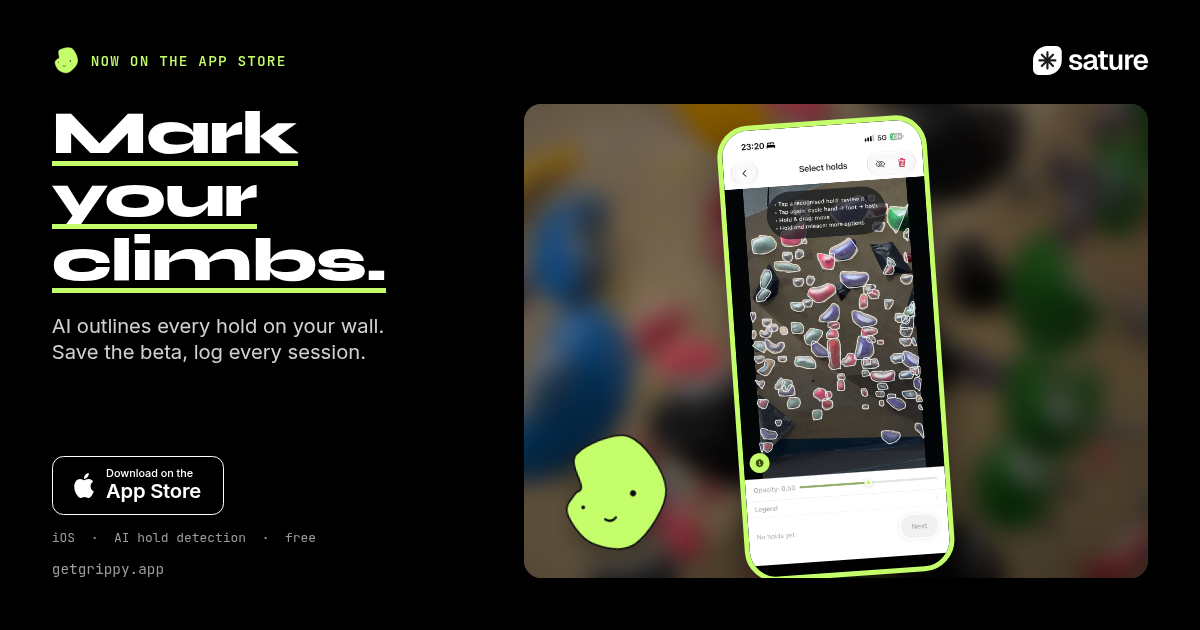
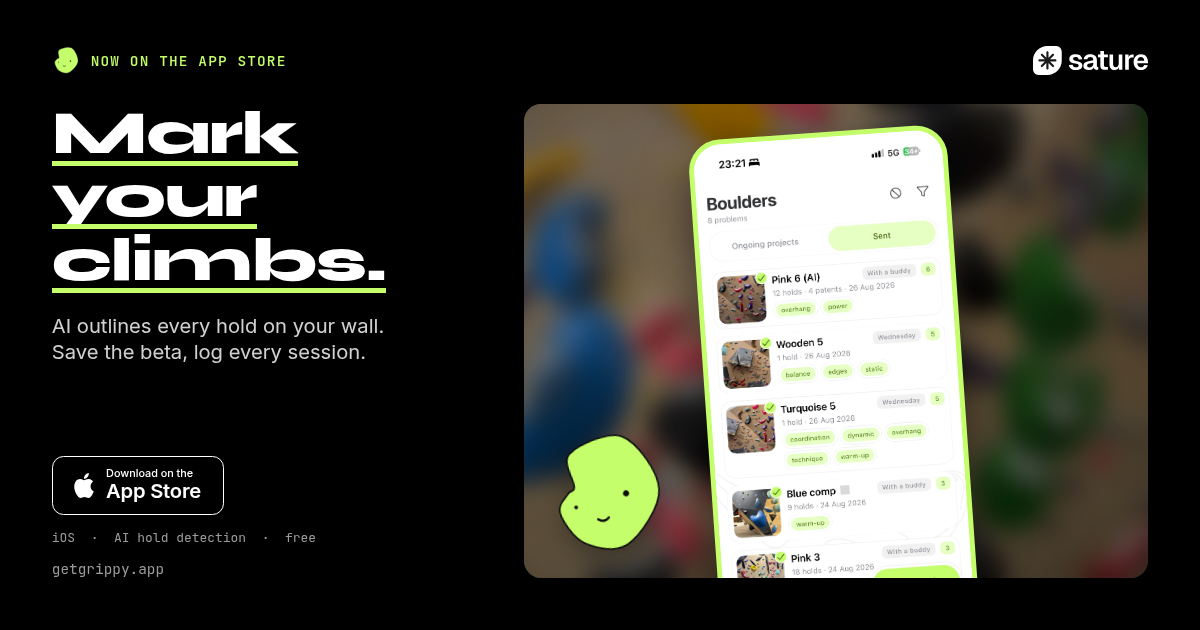
Share image: show the boulders list with thumbnails on the phone

Changed region(s): [[0.555, 0.181, 0.8325, 0.9349], [0.4625, 0.6937, 0.555, 0.8746]]

diff --git a/index.html b/index.html
@@ -17,13 +17,13 @@
   <meta property="og:image:type" content="image/png" />
   <meta property="og:image:width" content="1200" />
   <meta property="og:image:height" content="630" />
-  <meta property="og:image:alt" content="Grippy app: Mark your climbs. A phone showing AI-outlined holds on a bouldering wall, with the Grippy mascot." />
+  <meta property="og:image:alt" content="Grippy app: Mark your climbs. A phone showing the Grippy boulders list with wall photo thumbnails, with the Grippy mascot." />
 
   <meta name="twitter:card" content="summary_large_image" />
   <meta name="twitter:title" content="Grippy — Mark Your Climbs" />
   <meta name="twitter:description" content="A bouldering app for climbers: AI outlines every hold on your wall photo, save beta, grade and tag problems, and log every session." />
   <meta name="twitter:image" content="https://getgrippy.app/assets/og-image.png" />
-  <meta name="twitter:image:alt" content="Grippy app: Mark your climbs. A phone showing AI-outlined holds on a bouldering wall, with the Grippy mascot." />
+  <meta name="twitter:image:alt" content="Grippy app: Mark your climbs. A phone showing the Grippy boulders list with wall photo thumbnails, with the Grippy mascot." />
 
   <link rel="icon" type="image/svg+xml" href="assets/favicon.svg" />
   <link rel="stylesheet" href="styles.css?v=2" />

diff --git a/gym-owner.html b/gym-owner.html
@@ -17,13 +17,13 @@
   <meta property="og:image:type" content="image/png" />
   <meta property="og:image:width" content="1200" />
   <meta property="og:image:height" content="630" />
-  <meta property="og:image:alt" content="Grippy app: Mark your climbs. A phone showing AI-outlined holds on a bouldering wall, with the Grippy mascot." />
+  <meta property="og:image:alt" content="Grippy app: Mark your climbs. A phone showing the Grippy boulders list with wall photo thumbnails, with the Grippy mascot." />
 
   <meta name="twitter:card" content="summary_large_image" />
   <meta name="twitter:title" content="Grippy for Gyms" />
   <meta name="twitter:description" content="Give your walls a digital home. Publish sets, manage boulders wall by wall, and give climbers a heads-up before every reset." />
   <meta name="twitter:image" content="https://getgrippy.app/assets/og-image.png" />
-  <meta name="twitter:image:alt" content="Grippy app: Mark your climbs. A phone showing AI-outlined holds on a bouldering wall, with the Grippy mascot." />
+  <meta name="twitter:image:alt" content="Grippy app: Mark your climbs. A phone showing the Grippy boulders list with wall photo thumbnails, with the Grippy mascot." />
 
   <link rel="icon" type="image/svg+xml" href="assets/favicon.svg" />
   <link rel="stylesheet" href="styles.css?v=2" />
